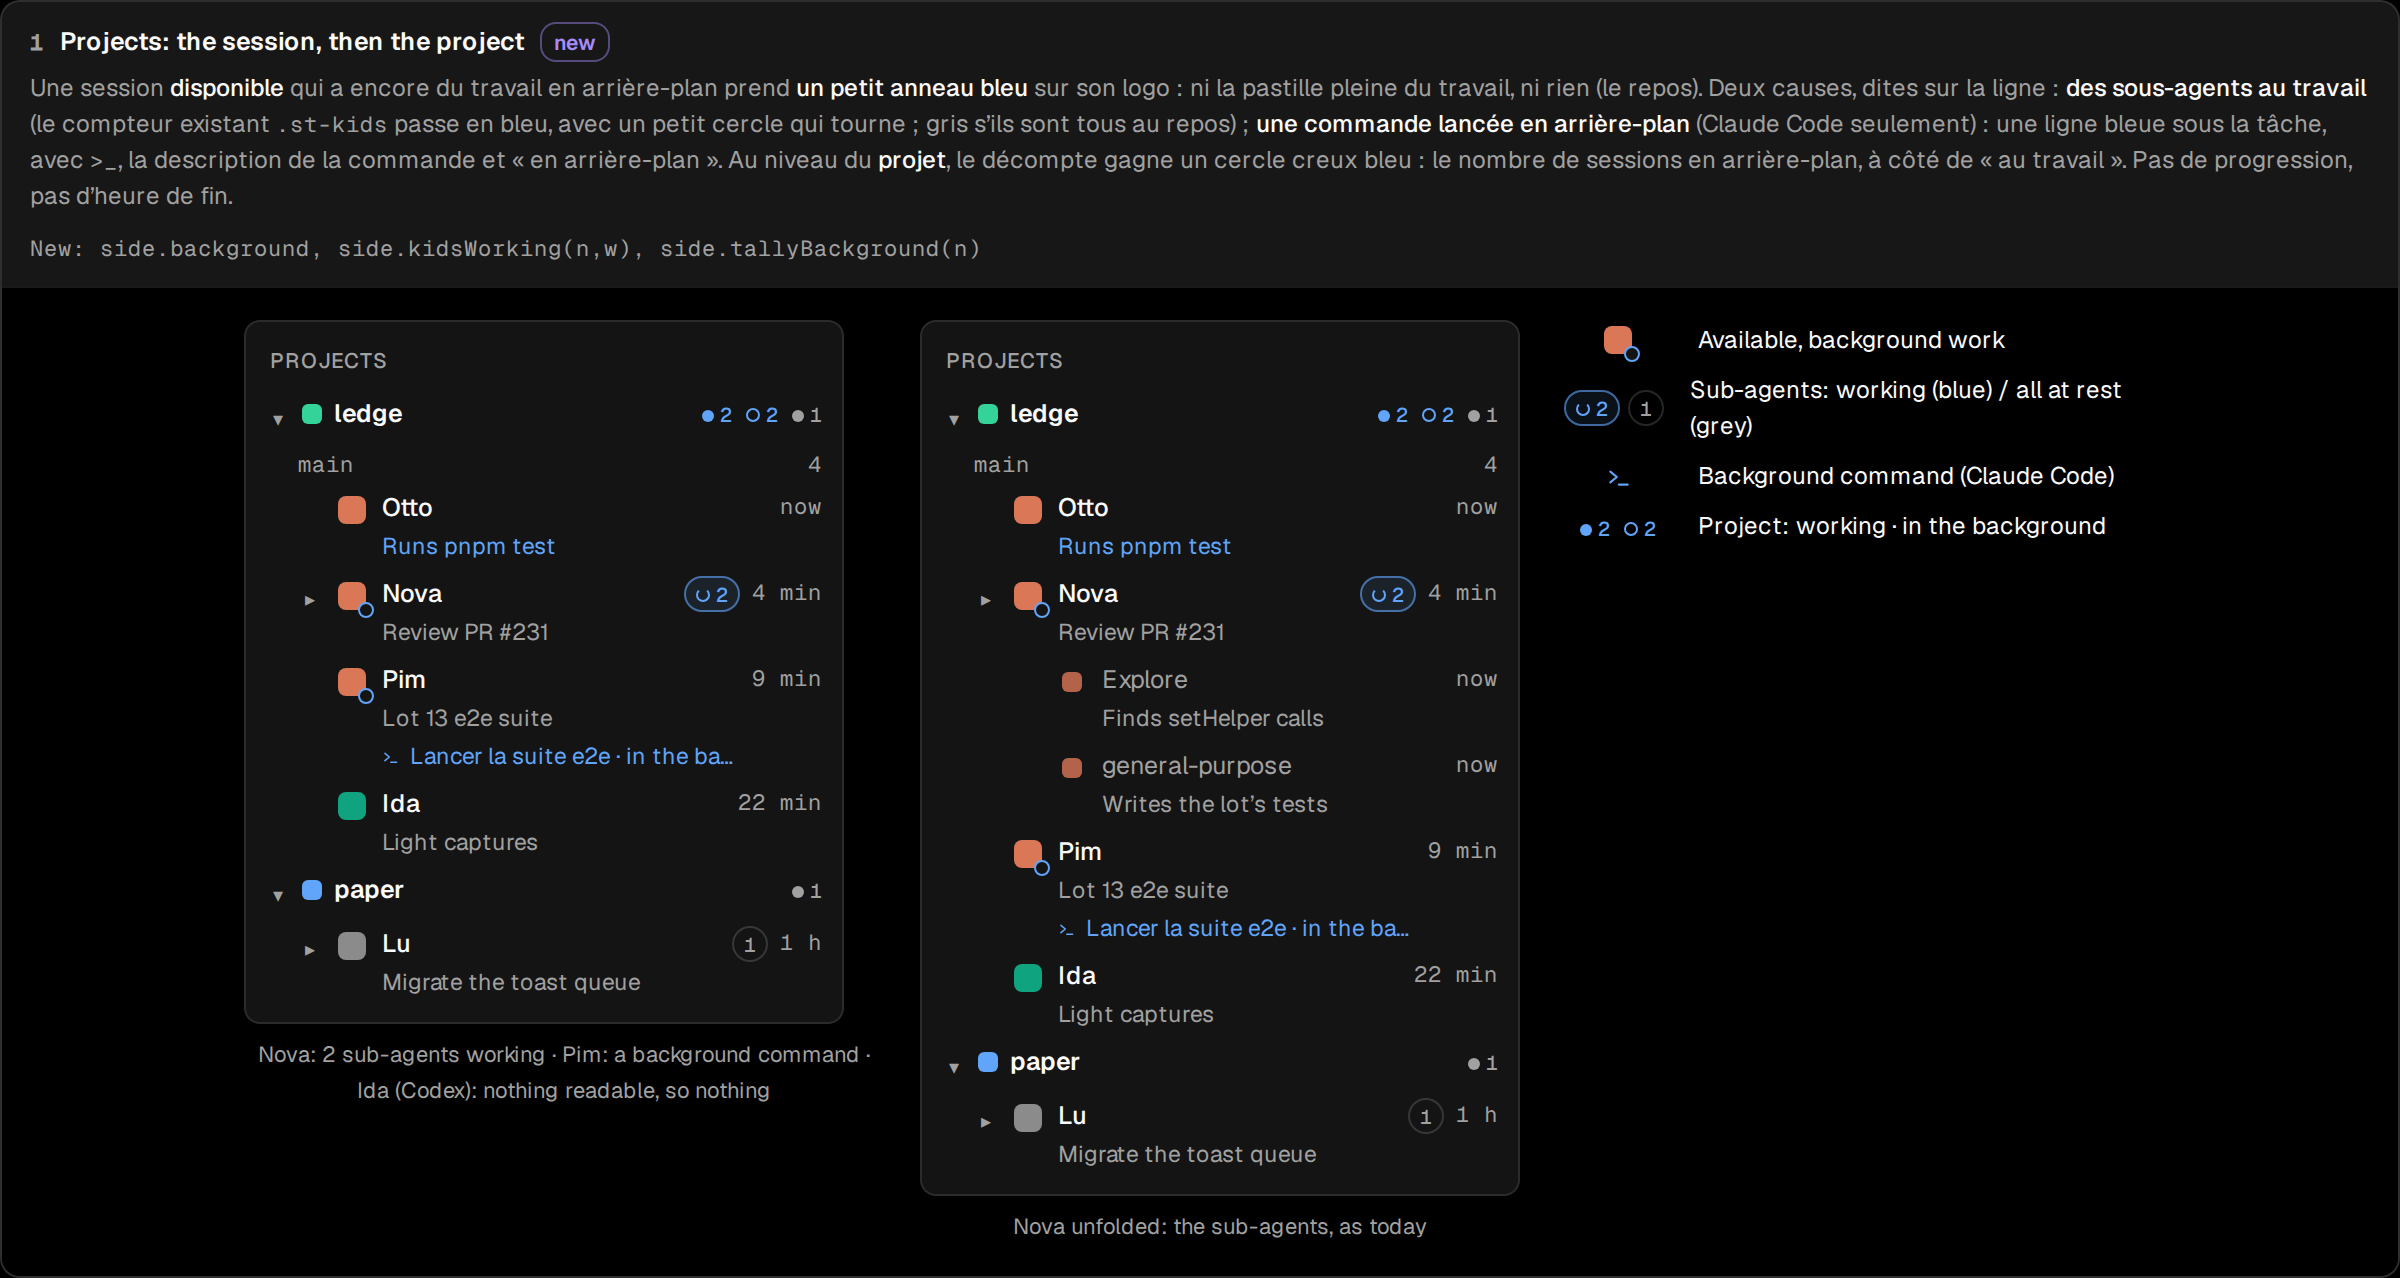
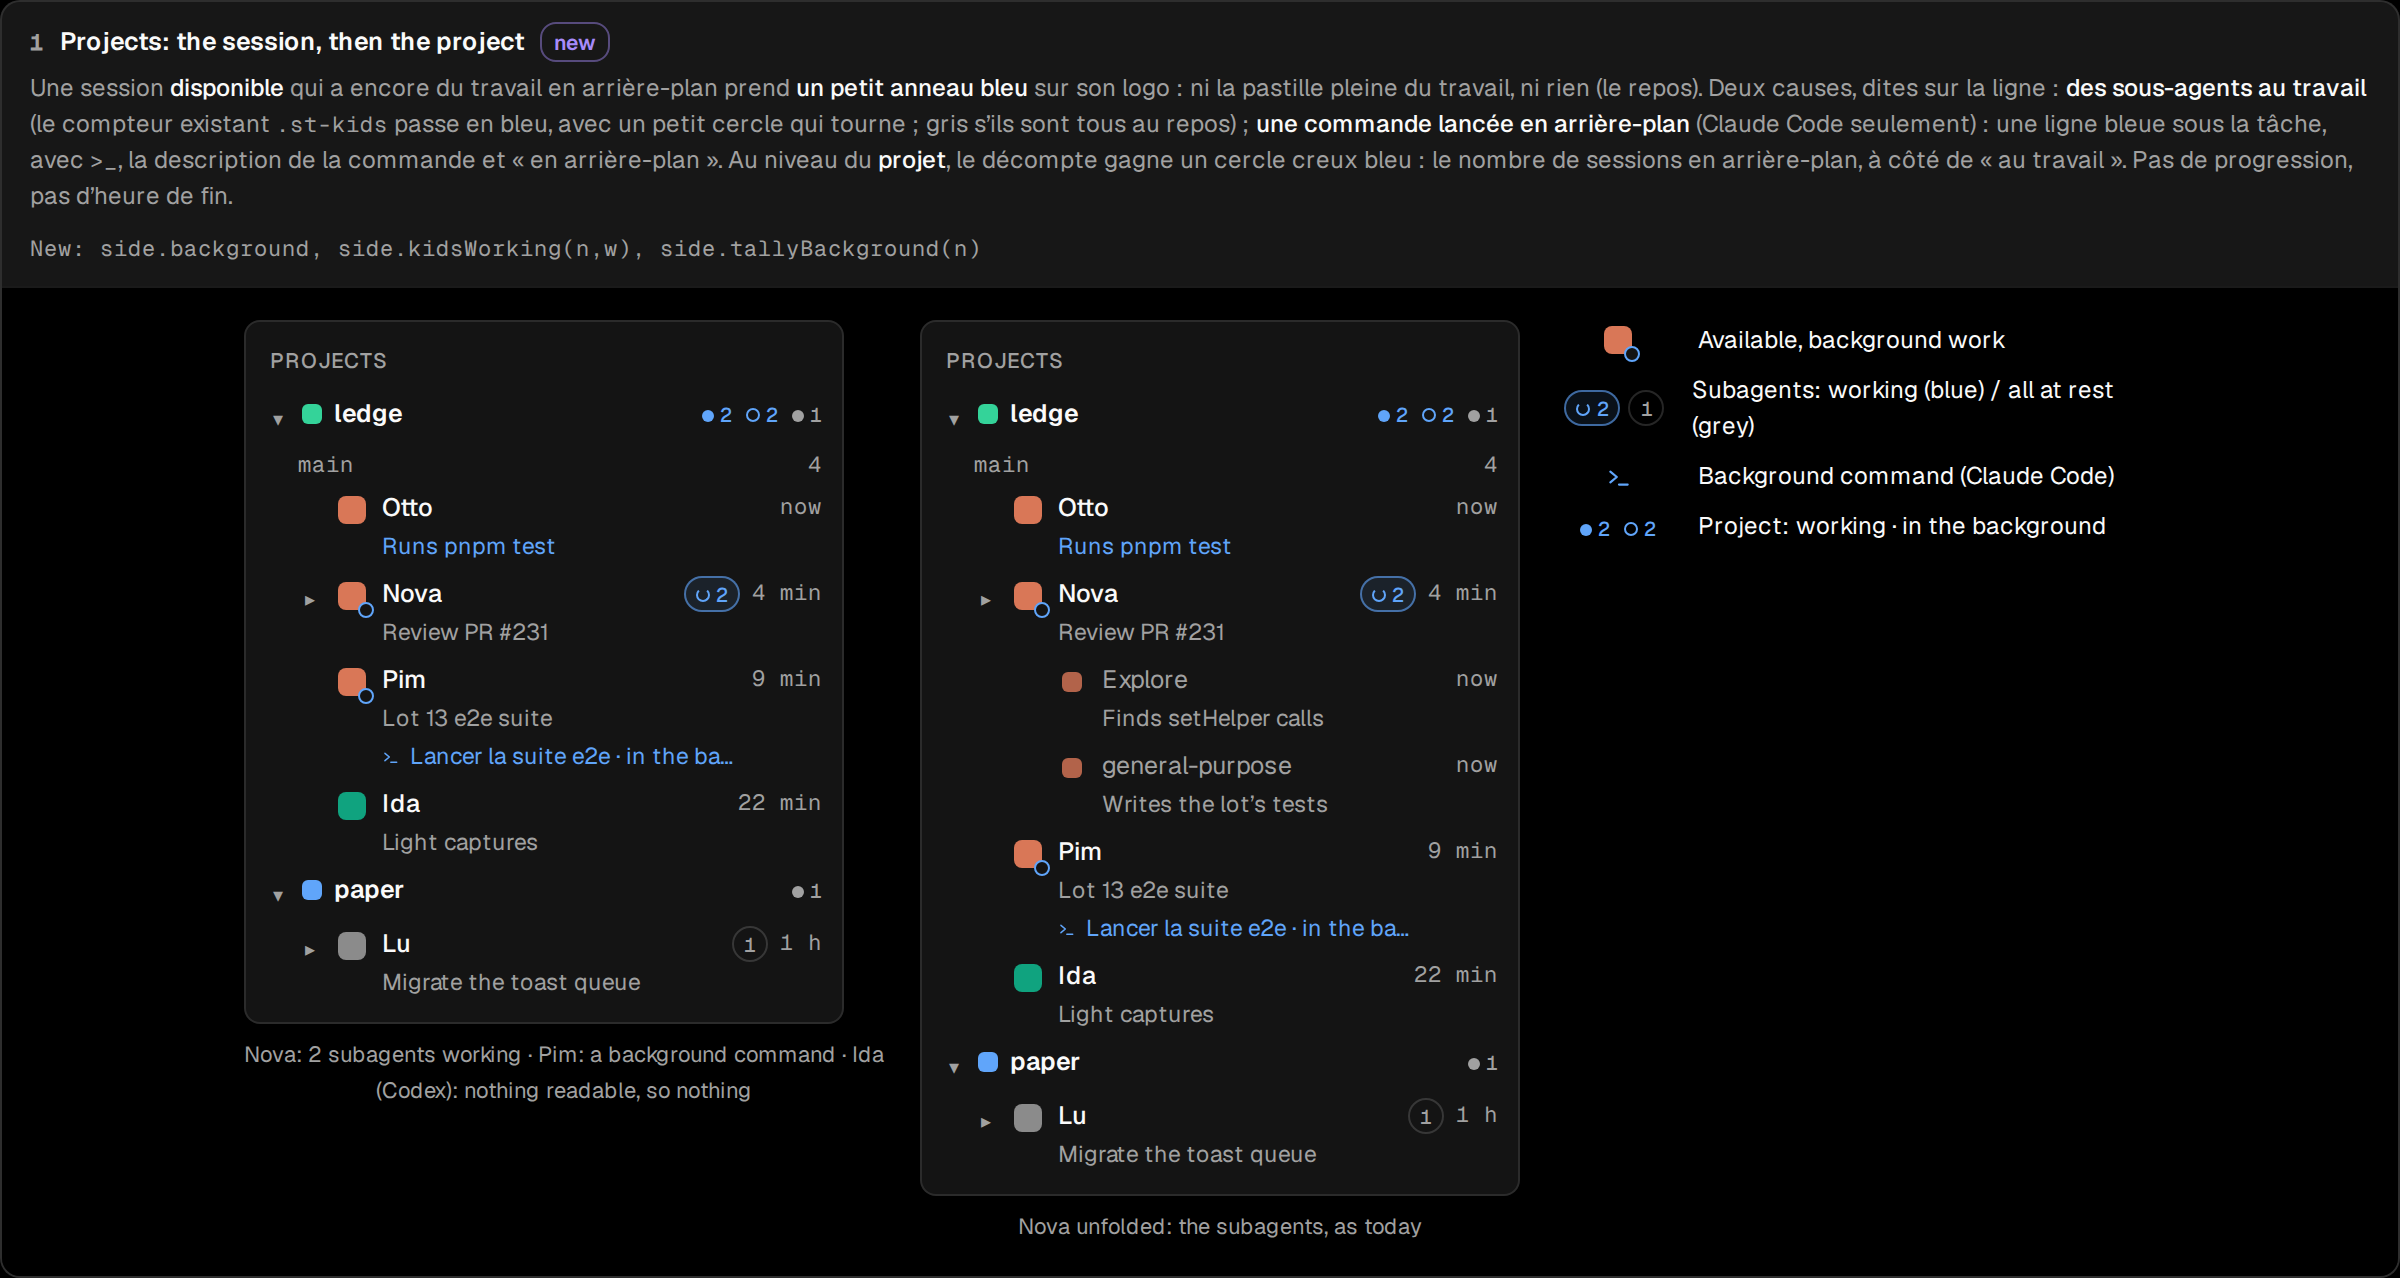
docs(mockups): #1 EN says subagents, as the rest of Desktop

Changed region(s): [[0.0938, 0.8239, 0.375, 0.885], [0.6875, 0.2746, 0.875, 0.3357], [0.4062, 0.946, 0.5938, 0.9765]]

diff --git a/docs/mockups/ledge-background-work.html b/docs/mockups/ledge-background-work.html
@@ -122,11 +122,11 @@ const T = {
   },
   en: {
     h1:'Sidebar — background work no longer looks like rest', hsub:'Issue kl-ledge/ledge#1. What depends on detection is marked provisional. For the user to validate.',
-    projects:'Projects', rigs:'Rigs', bgCmd:'in the background', kidsOn:(n,w)=>`${n} sub-agent${n>1?'s':''}, ${w} working`,
-    tipKids:'Available, but 2 sub-agents are still working.', tipCmd:'Available, but a command started in the background is still running: “Run the e2e suite”. Ledge can’t tell when it will finish.',
+    projects:'Projects', rigs:'Rigs', bgCmd:'in the background', kidsOn:(n,w)=>`${n} subagent${n>1?'s':''}, ${w} working`,
+    tipKids:'Available, but 2 subagents are still working.', tipCmd:'Available, but a command started in the background is still running: “Run the e2e suite”. Ledge can’t tell when it will finish.',
     tallyBg:n=>`${n} in the background`, rigBg:n=>`${n} in the background`,
-    tipSeat:'Available · 2 sub-agents working',
-    lWork:'Working', lBg:'Available, background work', lIdle:'Available, nothing running', lKids:'Sub-agents: working (blue) / all at rest (grey)', lCmd:'Background command (Claude Code)',
+    tipSeat:'Available · 2 subagents working',
+    lWork:'Working', lBg:'Available, background work', lIdle:'Available, nothing running', lKids:'Subagents: working (blue) / all at rest (grey)', lCmd:'Background command (Claude Code)',
     when:{now:'now', m:'min'},
   }
 };
@@ -183,8 +183,8 @@ function cards(){
   C.push({tag:'new', title:F?'Projets : la session, puis le projet':'Projects: the session, then the project',
     why:`Une session <b>disponible</b> qui a encore du travail en arrière-plan prend <b>un petit anneau bleu</b> sur son logo : ni la pastille pleine du travail, ni rien (le repos). Deux causes, dites sur la ligne : <b>des sous-agents au travail</b> (le compteur existant <code>.st-kids</code> passe en bleu, avec un petit cercle qui tourne ; gris s’ils sont tous au repos) ; <b>une commande lancée en arrière-plan</b> (Claude Code seulement) : une ligne bleue sous la tâche, avec <code>>_</code>, la description de la commande et « en arrière-plan ». Au niveau du <b>projet</b>, le décompte gagne un cercle creux bleu : le nombre de sessions en arrière-plan, à côté de « au travail ». Pas de progression, pas d’heure de fin.`,
     keys:F?'Nouveaux : side.background, side.kidsWorking(n,w), side.tallyBackground(n)':'New: side.background, side.kidsWorking(n,w), side.tallyBackground(n)',
-    scene: `<div>${projectsSide({})}<div class="cap">${F?'Nova : 2 sous-agents au travail · Pim : une commande en arrière-plan · Ida (Codex) : rien de lisible, donc rien':'Nova: 2 sub-agents working · Pim: a background command · Ida (Codex): nothing readable, so nothing'}</div></div>
-      <div>${projectsSide({open:true})}<div class="cap">${F?'Nova déplié : les sous-agents, comme aujourd’hui':'Nova unfolded: the sub-agents, as today'}</div></div>
+    scene: `<div>${projectsSide({})}<div class="cap">${F?'Nova : 2 sous-agents au travail · Pim : une commande en arrière-plan · Ida (Codex) : rien de lisible, donc rien':'Nova: 2 subagents working · Pim: a background command · Ida (Codex): nothing readable, so nothing'}</div></div>
+      <div>${projectsSide({open:true})}<div class="cap">${F?'Nova déplié : les sous-agents, comme aujourd’hui':'Nova unfolded: the subagents, as today'}</div></div>
       <div class="legend"><div><span class="k"><span class="logo"><span class="lg" style="background:${LOGO.claude}"></span><span class="ring"></span></span></span>${x.lBg}</div><div><span class="k"><span class="kids on"><span class="sp"></span>2</span><span class="kids" style="margin-left:4px">1</span></span>${x.lKids}</div><div><span class="k" style="color:var(--work)">${svg(TERM,13)}</span>${x.lCmd}</div><div><span class="k"><span class="tally"><span class="w"><i></i>2</span><span class="bg"><i></i>2</span></span></span>${F?'Projet : au travail · en arrière-plan':'Project: working · in the background'}</div></div>`});
   C.push({tag:'new', title:F?'Au survol : ce qui tourne, et ce qu’on ne sait pas':'On hover: what runs, and what we don’t know',
     why:`L’infobulle de la ligne dit <b>« Disponible, mais … »</b> et la cause. Pour une commande, elle dit aussi que Ledge ne sait pas quand elle finira. Rien de plus : pas de pourcentage, pas d’estimation.`,
@@ -197,8 +197,8 @@ function cards(){
   C.push({tag:'prov', title:F?'Ce que Ledge sait lire, par outil (provisoire)':'What Ledge can read, per tool (provisional)',
     why:`D’après l’étude de dev-back. <b>Mieux vaut un indicateur absent que faux</b> : là où l’outil ne permet pas de savoir, la ligne reste comme aujourd’hui. Tout ce tableau est provisoire, à revoir quand la détection sera en place.`,
     keys:'—',
-    scene: `<table class="cov"><tr><th>${F?'Outil':'Tool'}</th><th>${F?'Sous-agents au travail':'Sub-agents working'}</th><th>${F?'Commande en arrière-plan':'Background command'}</th></tr>
-      <tr><td>Claude Code ${F?'(sessions et sièges)':'(sessions and seats)'}</td><td class="y">${F?'oui (lot 1) · un sous-agent sans fin connue s’efface après un délai':'yes (lot 1) · a sub-agent with no known end fades after a delay'}</td><td class="y">${F?'oui (lot 2) · sauf un <code>nohup … &</code> détaché, invisible':'yes (lot 2) · except a detached <code>nohup … &</code>, invisible'}</td></tr>
+    scene: `<table class="cov"><tr><th>${F?'Outil':'Tool'}</th><th>${F?'Sous-agents au travail':'Subagents working'}</th><th>${F?'Commande en arrière-plan':'Background command'}</th></tr>
+      <tr><td>Claude Code ${F?'(sessions et sièges)':'(sessions and seats)'}</td><td class="y">${F?'oui (lot 1) · un sous-agent sans fin connue s’efface après un délai':'yes (lot 1) · a subagent with no known end fades after a delay'}</td><td class="y">${F?'oui (lot 2) · sauf un <code>nohup … &</code> détaché, invisible':'yes (lot 2) · except a detached <code>nohup … &</code>, invisible'}</td></tr>
       <tr><td>OMP ${F?'lancé par Ledge (RPC)':'started by Ledge (RPC)'}</td><td class="y">${F?'oui (lot 1)':'yes (lot 1)'}</td><td class="no">${F?'non : rien affiché':'no: nothing shown'}</td></tr>
       <tr><td>OMP ${F?'siège lu par son journal':'seat read from its log'}</td><td class="no">${F?'non : rien affiché':'no: nothing shown'}</td><td class="no">${F?'non : rien affiché':'no: nothing shown'}</td></tr>
       <tr><td>Codex</td><td class="p">${F?'non vérifié : rien affiché pour l’instant':'unverified: nothing shown for now'}</td><td class="p">${F?'au mieux « processus actif » générique (question 2)':'at best a generic “active process” (question 2)'}</td></tr>
